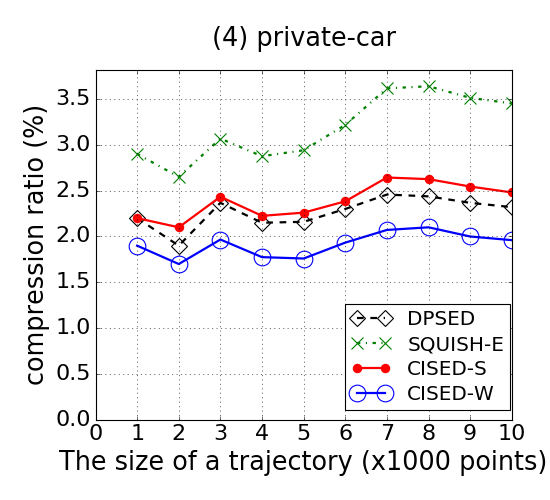
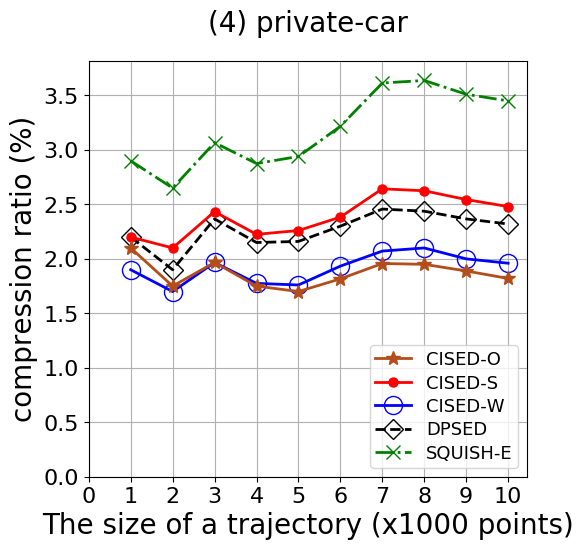
M    Figures/Exp-CR-size-geolife.png M    Figures/Exp-CR-size-private.png M    Figures/Exp-CR-size-service.png M    Figures/Exp-M-poly-time-ratio-geolife.png M    Figures/Exp-M-poly-time-ratio-private.png M    Figures/Exp-M-poly-time-ratio-service.png M    Figures/Exp-error-size-geolife.png M    Fig

Changed region(s): [[0.0, 0.0, 1.0, 0.99]]

diff --git a/traj_conei3d/sec-exp.tex b/traj_conei3d/sec-exp.tex
@@ -19,13 +19,13 @@
 		%\truck	&10,368	    &1-60	    &$\sim71.9$     &746M \\
 		% \truck	&1,000	    &1-60	    &$\sim132.7$     &132.7M \\
 		%\sercar	&11,000	    &3-5	    &$\sim119.1$   &1.31G\\
-		\sercar	&1,000	    &3-5	    &$\sim114.1$   &114M\\
+		\sercar	&1,000	    &3-5	    &$\sim114.0$   &114M\\
 		\hline
-		\geolife &182	    &1-5	    &$\sim132.8$   &24.2M\\
+		\geolife &182	    &1-5	    &$\sim131.4$   &24.2M\\
 		\hline
-		\mopsi	&1,000	    &2	    &$\sim132.7$     &132.7M \\
+		\mopsi	&1,000	    &2	    &$\sim2.1$     &2.1M \\
 		\hline
-		\pricar	& 10	    &1	        &$\sim11.8$      &118K \\
+		\pricar	& 10	    &1	        &$\sim11.8$      &112.8K \\
 		\hline
 	\end{tabular}
 	\label{tab:datasets}
@@ -114,10 +114,10 @@ By the definition, \emph{algorithms with lower compression ratios are better}.
 
 \begin{figure*}[tb!]
 \centering
-\includegraphics[scale = 0.3]{Figures/Exp-M-e-60-CR-service.png}
-\includegraphics[scale = 0.3]{Figures/Exp-M-e-60-CR-geolife.png}
-\includegraphics[scale = 0.3]{Figures/Exp-M-e-60-CR-mopsi.png}
-\includegraphics[scale = 0.3]{Figures/Exp-M-e-60-CR-private.png}
+\includegraphics[scale = 0.28]{Figures/Exp-M-e-60-CR-service.png}
+\includegraphics[scale = 0.28]{Figures/Exp-M-e-60-CR-geolife.png}
+\includegraphics[scale = 0.28]{Figures/Exp-M-e-60-CR-mopsi.png}
+\includegraphics[scale = 0.28]{Figures/Exp-M-e-60-CR-private.png}
 \vspace{-1ex}
 \caption{\small Evaluation of compression ratios: fixed error bound with $\epsilon=60$ meters and varying $m$.}
 \label{fig:m-cr-e60}
@@ -127,10 +127,10 @@ By the definition, \emph{algorithms with lower compression ratios are better}.
 
 \begin{figure*}[tb!]
 \centering
-\includegraphics[scale = 0.3]{Figures/Exp-CR-epsilon-service.png}
-\includegraphics[scale = 0.3]{Figures/Exp-CR-epsilon-geolife.png}
-\includegraphics[scale = 0.3]{Figures/Exp-CR-epsilon-mopsi.png}
-\includegraphics[scale = 0.3]{Figures/Exp-CR-epsilon-private.png}
+\includegraphics[scale = 0.28]{Figures/Exp-CR-epsilon-service.png}
+\includegraphics[scale = 0.28]{Figures/Exp-CR-epsilon-geolife.png}
+\includegraphics[scale = 0.28]{Figures/Exp-CR-epsilon-mopsi.png}
+\includegraphics[scale = 0.28]{Figures/Exp-CR-epsilon-private.png}
 \vspace{-1ex}
 \caption{\small Evaluation of compression ratios: fixed with $m=16$ and varying error bound $\epsilon$.}
 \label{fig:cr-m16}
@@ -140,10 +140,10 @@ By the definition, \emph{algorithms with lower compression ratios are better}.
 
 \begin{figure*}[tb!]
 \centering
-\includegraphics[scale = 0.240]{Figures/Exp-CR-size-truck.png}
-\includegraphics[scale = 0.240]{Figures/Exp-CR-size-service.png}
-\includegraphics[scale = 0.240]{Figures/Exp-CR-size-geolife.png}
-\includegraphics[scale = 0.240]{Figures/Exp-CR-size-private.png}
+\includegraphics[scale = 0.280]{Figures/Exp-CR-size-service.png}
+\includegraphics[scale = 0.280]{Figures/Exp-CR-size-geolife.png}
+\includegraphics[scale = 0.280]{Figures/Exp-CR-size-mopsi.png}
+\includegraphics[scale = 0.280]{Figures/Exp-CR-size-private.png}
 \vspace{-1ex}
 \caption{\small Evaluation of compression ratios: fixed with $m=16$ and $\epsilon=60$ meters, and varying the size of trajectories.}
 \label{fig:cr-size}
@@ -236,10 +236,10 @@ then the average error is $\sum_{j=1}^{M}\sum_{i=0}^{M} d(P_{j,i},
 
 \begin{figure*}[tb!]
 \centering
-\includegraphics[scale = 0.30]{Figures/Exp-M-e-60-error-service.png}
-\includegraphics[scale = 0.30]{Figures/Exp-M-e-60-error-geolife.png}
-\includegraphics[scale = 0.30]{Figures/Exp-M-e-60-error-mopsi.png}
-\includegraphics[scale = 0.30]{Figures/Exp-M-e-60-error-private.png}
+\includegraphics[scale = 0.280]{Figures/Exp-M-e-60-error-service.png}
+\includegraphics[scale = 0.280]{Figures/Exp-M-e-60-error-geolife.png}
+\includegraphics[scale = 0.280]{Figures/Exp-M-e-60-error-mopsi.png}
+\includegraphics[scale = 0.280]{Figures/Exp-M-e-60-error-private.png}
 \vspace{-1ex}
 \caption{\small Evaluation of average errors: fixed error bound with $\epsilon = 60$ meters and varying $m$.}
 \label{fig:m-error-e60}
@@ -249,10 +249,10 @@ then the average error is $\sum_{j=1}^{M}\sum_{i=0}^{M} d(P_{j,i},
 
 \begin{figure*}[tb]
 \centering
-\includegraphics[scale = 0.30]{Figures/Exp-error-epsilon-service.png}
-\includegraphics[scale = 0.30]{Figures/Exp-error-epsilon-geolife.png}
-\includegraphics[scale = 0.30]{Figures/Exp-error-epsilon-mopsi.png}
-\includegraphics[scale = 0.30]{Figures/Exp-error-epsilon-private.png}
+\includegraphics[scale = 0.280]{Figures/Exp-error-epsilon-service.png}
+\includegraphics[scale = 0.280]{Figures/Exp-error-epsilon-geolife.png}
+\includegraphics[scale = 0.280]{Figures/Exp-error-epsilon-mopsi.png}
+\includegraphics[scale = 0.280]{Figures/Exp-error-epsilon-private.png}
 \vspace{-1ex}
 \caption{\small Evaluation of average errors: fixed with $m=16$ and varying error bound $\epsilon$.}
 \label{fig:ae-m16}
@@ -263,10 +263,10 @@ then the average error is $\sum_{j=1}^{M}\sum_{i=0}^{M} d(P_{j,i},
 
 \begin{figure*}[tb!]
 \centering
-\includegraphics[scale = 0.240]{Figures/Exp-error-size-truck.png}
-\includegraphics[scale = 0.240]{Figures/Exp-error-size-service.png}
-\includegraphics[scale = 0.240]{Figures/Exp-error-size-geolife.png}
-\includegraphics[scale = 0.240]{Figures/Exp-error-size-private.png}
+\includegraphics[scale = 0.280]{Figures/Exp-error-size-service.png}
+\includegraphics[scale = 0.280]{Figures/Exp-error-size-geolife.png}
+\includegraphics[scale = 0.280]{Figures/Exp-error-size-mopsi.png}
+\includegraphics[scale = 0.280]{Figures/Exp-error-size-private.png}
 \vspace{-1ex}
 \caption{\small Evaluation of average errors: fixed with $m=16$ and $\epsilon=60$ meters, and varying the size of trajectories.}
 \label{fig:ae-size}
@@ -351,10 +351,10 @@ In the last set of tests, we evaluate the impacts of parameter $m$ on the effici
 
 \begin{figure*}[tb!]
 \centering
-\includegraphics[scale = 0.240]{Figures/Exp-M-poly-time-ratio-truck.png}
-\includegraphics[scale = 0.240]{Figures/Exp-M-poly-time-ratio-service.png}
-\includegraphics[scale = 0.240]{Figures/Exp-M-poly-time-ratio-geolife.png}
-\includegraphics[scale = 0.240]{Figures/Exp-M-poly-time-ratio-private.png}
+\includegraphics[scale = 0.28]{Figures/Exp-M-poly-time-ratio-service.png}
+\includegraphics[scale = 0.28]{Figures/Exp-M-poly-time-ratio-geolife.png}
+\includegraphics[scale = 0.28]{Figures/Exp-M-poly-time-ratio-mopsi.png}
+\includegraphics[scale = 0.28]{Figures/Exp-M-poly-time-ratio-private.png}
 \vspace{-1ex}
 \caption{\small Evaluation of running time of polygon intersection algorithms: fixed error bound with $\epsilon=60$ meters, and varying $m$. Here ``R'' denotes our fast regular polygon intersection algorithm \rpia, and ``C'' denotes \cpia, respectively.}
 \label{fig:m-poly-time}
@@ -364,10 +364,10 @@ In the last set of tests, we evaluate the impacts of parameter $m$ on the effici
 
 \begin{figure*}[tb!]
 \centering
-\includegraphics[scale = 0.30]{Figures/Exp-M-e-60-time-service.png}
-\includegraphics[scale = 0.30]{Figures/Exp-M-e-60-time-geolife.png}
-\includegraphics[scale = 0.30]{Figures/Exp-M-e-60-time-mopsi.png}
-\includegraphics[scale = 0.30]{Figures/Exp-M-e-60-time-private.png}
+\includegraphics[scale = 0.280]{Figures/Exp-M-e-60-time-service.png}
+\includegraphics[scale = 0.280]{Figures/Exp-M-e-60-time-geolife.png}
+\includegraphics[scale = 0.280]{Figures/Exp-M-e-60-time-mopsi.png}
+\includegraphics[scale = 0.280]{Figures/Exp-M-e-60-time-private.png}
 \vspace{-1ex}
 \caption{\small Evaluation of running time: fixed error bound with $\epsilon=60$ meters, and varying $m$. }
 \label{fig:m-time-e60}
@@ -379,10 +379,10 @@ In the last set of tests, we evaluate the impacts of parameter $m$ on the effici
 
 \begin{figure*}[tb!]
 \centering
-\includegraphics[scale = 0.30]{Figures/Exp-time-epsilon-service.png}
-\includegraphics[scale = 0.30]{Figures/Exp-time-epsilon-geolife.png}
-\includegraphics[scale = 0.30]{Figures/Exp-time-epsilon-mopsi.png}
-\includegraphics[scale = 0.30]{Figures/Exp-time-epsilon-private.png}
+\includegraphics[scale = 0.280]{Figures/Exp-time-epsilon-service.png}
+\includegraphics[scale = 0.280]{Figures/Exp-time-epsilon-geolife.png}
+\includegraphics[scale = 0.280]{Figures/Exp-time-epsilon-mopsi.png}
+\includegraphics[scale = 0.280]{Figures/Exp-time-epsilon-private.png}
 \vspace{-1ex}
 \caption{\small Evaluation of running time: fixed with $m=16$ and varying error bounds $\epsilon$.}
 \label{fig:time-epsilon}
@@ -393,10 +393,10 @@ In the last set of tests, we evaluate the impacts of parameter $m$ on the effici
 
 \begin{figure*}[tb!]
 \centering
-\includegraphics[scale = 0.240]{Figures/Exp-time-size-truck.png}
-\includegraphics[scale = 0.240]{Figures/Exp-time-size-service.png}
-\includegraphics[scale = 0.240]{Figures/Exp-time-size-geolife.png}
-\includegraphics[scale = 0.240]{Figures/Exp-time-size-private.png}
+\includegraphics[scale = 0.280]{Figures/Exp-time-size-service.png}
+\includegraphics[scale = 0.280]{Figures/Exp-time-size-geolife.png}
+\includegraphics[scale = 0.280]{Figures/Exp-time-size-mopsi.png}
+\includegraphics[scale = 0.280]{Figures/Exp-time-size-private.png}
 \vspace{-1ex}
 \caption{\small Evaluation of running time: fixed with $m=16$ and $\epsilon=60$ meters, and varying the size of trajectories. }
 \label{fig:time-size}
@@ -418,7 +418,8 @@ The results are reported in Figures~\ref{fig:m-poly-time} and~\ref{fig:m-time-e6
 \ni(1) The algorithms \cist and \cista spend the most time in the executing of
 polygon intersections. For all $m$, the execution time of algorithms \cpia and
 \rpia is on average \textcolor{blue}{($92.5\%$, $93.5\%$, $96.0\%$, $97.0\%$) and ($89.0\%$,
-$90.5\%$, $92.5\%$, $96.5\%$)} of the entire compression  time on {datasets} (\sercar, \geolife,\mopsi,  \pricar), respectively.
+$90.5\%$, $92.5\%$, $96.5\%$)} of the entire compression  time on {datasets}
+(\sercar, \geolife, \mopsi,  \pricar), respectively.
 
 \ni(2) \rpia runs faster than \cpia on all datasets and for all $m$. The execution time of algorithms \cist-\rpia and \cista-\rpia is one average $81.3\%$ their counterparts with \cpia.
 
@@ -462,8 +463,8 @@ and both have a linear running time, while algorithm \dps does not.
 This is consistent with their time complexity analyses.
 
 \ni(2) Algorithms \cist and \cista are the fastest \sed enabled \lsa algorithms,
-and are \textcolor{blue}{($5.5$--$10.6$, $7.3$--$10.6$, $5.2$--$8.4$, $6.0$--$8.5$) times faster than \dps,
-and {($2.0$--$2.8$, $2.4$--$2.7$, $2.8$--$3.0$, $2.8$--$4.0$)}} times faster
+and are {($8.00$--$10.00$, $5.83$--$8.11$, $2.00$--$7.00$, $5.00$--$8.09$) times faster than \dps,
+and {($2.53$--$3.00$, $2.62$--$3.12$, $3.00$--$3.60$, $2.89$--$3.40$)}} times faster
 than \squishe  on the selected $1K$ to $10K$ points datasets ( \sercar,
 \geolife, \mopsi, \pricar), respectively.
 
